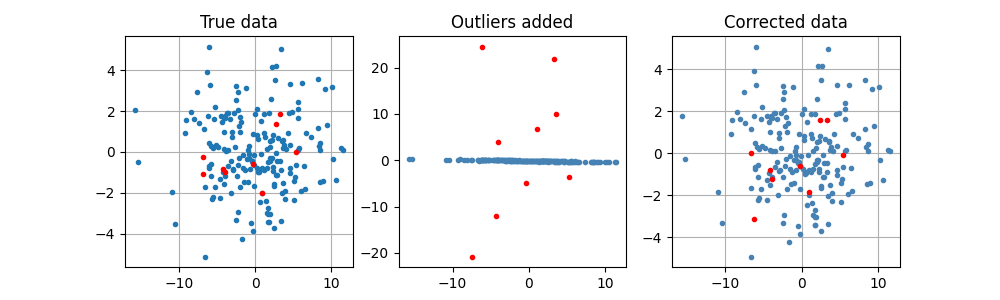
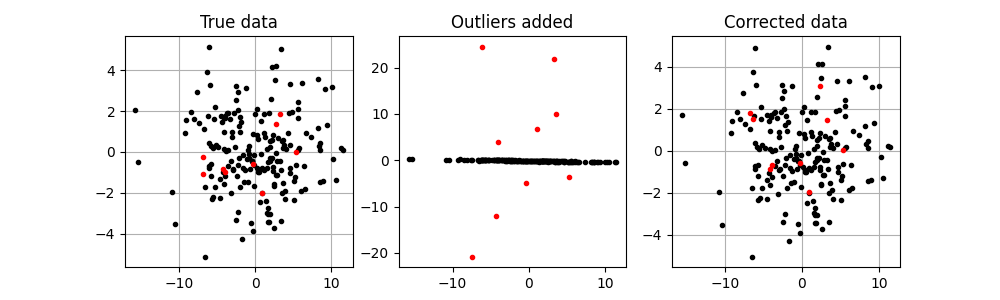
fixed synthetic datasets

diff --git a/exp_synthetic/test_synthetic_datasets.py b/exp_synthetic/test_synthetic_datasets.py
@@ -107,20 +107,20 @@ if not os.path.exists(cross_fig_path):
 
     # plot original graph
     va, ve, Xe = cMDS(ori_dis_sq)
-    ax1.plot(Xe[normal_indices,0],Xe[normal_indices,1],'.')
+    ax1.plot(Xe[normal_indices,0],Xe[normal_indices,1],'.', color='black')
     ax1.plot(Xe[outlier_indices,0],Xe[outlier_indices,1],'.',color='red')
     ax1.set_title("True data")
     ax1.grid()
 
     # plot original graphs with outliers added 
     va, ve, Xe = cMDS(out_dis_sq)
-    ax2.plot(Xe[normal_indices,0],Xe[normal_indices,1],'.', color='steelblue')
+    ax2.plot(Xe[normal_indices,0],Xe[normal_indices,1],'.', color='black')
     ax2.plot(Xe[outlier_indices,0],Xe[outlier_indices,1],'.',color='red')
     ax2.set_title("Outliers added")
 
     # plot correct outliers 
     va, ve, Xe = cMDS(corr_dis_sq)   
-    ax3.plot(Xe[normal_indices,0],Xe[normal_indices,1],'.', color='steelblue')
+    ax3.plot(Xe[normal_indices,0],Xe[normal_indices,1],'.', color='black')
     ax3.plot(Xe[outlier_indices,0],Xe[outlier_indices,1],'.',color='red')
     ax3.set_title("Corrected data")
     ax3.grid()
@@ -211,7 +211,7 @@ if not os.path.exists(dim2_fig_path):
             print("outlier:", e)
             ax1.scatter(e[0],e[1],e[2], s=5, color='red')
         else:
-            ax1.scatter(e[0],e[1],e[2], s=5, color='steelblue')
+            ax1.scatter(e[0],e[1],e[2], s=5, color='black')
     # plt.show()
 
     ax2 = fig.add_subplot(122, projection='3d')
@@ -224,7 +224,7 @@ if not os.path.exists(dim2_fig_path):
             print("outlier corrected:", e)
             ax2.scatter(e[0],e[1],e[2], s=5, color='red')
         else:
-            ax2.scatter(e[0],e[1],e[2], s=5, color='steelblue')
+            ax2.scatter(e[0],e[1],e[2], s=5, color='black')
     plt.savefig("./outputs/synthetic_dim2_3D.png")
     plt.close()
 
@@ -244,20 +244,20 @@ if not os.path.exists(dim2_fig_path):
 
     # plot original graph
     va, ve, Xe = cMDS(ori_dis_sq)
-    ax1.plot(Xe[normal_indices,0],Xe[normal_indices,1],'.')
+    ax1.plot(Xe[normal_indices,0],Xe[normal_indices,1],'.', color='black')
     ax1.plot(Xe[outlier_indices,0],Xe[outlier_indices,1],'.',color='red')
     ax1.set_title("True data")
     ax1.grid()
 
     # plot original graphs with outliers added 
     va, ve, Xe = cMDS(out_dis_sq)
-    ax2.plot(Xe[normal_indices,0],Xe[normal_indices,1],'.', color='steelblue')
+    ax2.plot(Xe[normal_indices,0],Xe[normal_indices,1],'.', color='black')
     ax2.plot(Xe[outlier_indices,0],Xe[outlier_indices,1],'.',color='red')
     ax2.set_title("Outliers added")
 
     # plot correct outliers 
     va, ve, Xe = cMDS(corr_dis_sq)   
-    ax3.plot(Xe[normal_indices,0],Xe[normal_indices,1],'.', color='steelblue')
+    ax3.plot(Xe[normal_indices,0],Xe[normal_indices,1],'.', color='black')
     ax3.plot(Xe[outlier_indices,0],Xe[outlier_indices,1],'.',color='red')
     ax3.set_title("Corrected data")
     ax3.grid()
@@ -267,7 +267,7 @@ if not os.path.exists(dim2_fig_path):
 
 """ Section 2.1.3: Main subspace of higher dimensions """
 
-dim10_fig_path = "./outputs/synthetic_dim10_shepard.png"
+dim10_fig_path = "./outputs/synthetic_dim10.png"
 if not os.path.exists(dim10_fig_path):
     print(" ====== Running dimension 10 dataset =====")
 
@@ -329,6 +329,8 @@ if not os.path.exists(dim10_fig_path):
     print("running time is:", T2-T1)
     print("subspace dimension is:", subspace_dim)
 
+    fig, (ax1, ax2, ax3) = plt.subplots(1, 3, figsize=(10*2.5,3*2.5))
+    fig.tight_layout(pad=3, w_pad=5, h_pad=1.0)
 
     # In[20]:
 
@@ -344,18 +346,26 @@ if not os.path.exists(dim10_fig_path):
 
     blues=np.array([[255,255,217,256*0.8],[199,233,180,256*0.8], [65,182,196,256*0.9], [34,94,168,256*0.9], [8,29,88,256*0.8]])/256
 
-    plt.figure()
+    # plt.figure()
     # select a few dimensions (i.e. 2,6,8,9,10) for demonstrating the distributions of heights
-    plt.hist(hcolls[2-start_dim],label='dim2',color=blues[0])
-    plt.hist(hcolls[6-start_dim],label='dim6',color=blues[1])
-    plt.hist(hcolls[8-start_dim],label='dim8',color=blues[2])
-    plt.hist(hcolls[9-start_dim],label='dim9',color=blues[3])
-    plt.hist(hcolls[10-start_dim],label='dim10',color=blues[4])
+    ax1.hist(hcolls[2-start_dim],label='dim2',color=blues[0])
+    ax1.hist(hcolls[6-start_dim],label='dim6',color=blues[1])
+    ax1.hist(hcolls[8-start_dim],label='dim8',color=blues[2])
+    ax1.hist(hcolls[9-start_dim],label='dim9',color=blues[3])
+    ax1.hist(hcolls[10-start_dim],label='dim10',color=blues[4])
 
-    plt.xticks(np.arange(0, 60, 5))
-    plt.legend()
-    plt.savefig("./outputs/synthetic_dim10_height_dist.png")
-    plt.close()
+    ax1.set_xticks(np.arange(0, 60, 5))
+    ax1.tick_params(axis='x', labelsize=6)
+    ax1.tick_params(axis='y', labelsize=8)
+    ax1.set_ylabel("frequency")
+    ax1.set_xlabel(r'median of the heights $h^{n}_i$')
+    ax1.legend()
+
+
+
+    
+    # plt.savefig("./outputs/synthetic_dim10_height_dist.png")
+    # plt.close()
 
     # In[26]:
 
@@ -376,24 +386,29 @@ if not os.path.exists(dim10_fig_path):
 
     # plot the height scatterplot and the ratios
 
-    fig, ax1 = plt.subplots()
-    color = 'tab:red'
-    ax1.set_xlabel(r'dimension tested $n$')
-    ax1.set_ylabel(r'median of heights', color = color)
-    ax1.scatter(list(range(start_dim, end_dim+1)), h_meds, color = color)
-    ax1.tick_params(axis ='y', labelcolor = color)
+    # fig, sub_ax1 = plt.subplots()
+    color = 'red'
+    ax2.set_xlabel(r'dimension tested $n$')
+    ax2.set_ylabel(r'median of heights', color = color)
+    ax2.set_xticks(np.arange(2, 16, 1))
+    ax2.scatter(list(range(start_dim, end_dim+1)), h_meds, color = color, s=6)
+    ax2.tick_params(axis ='y', labelcolor = color)
+    ax2.tick_params(axis='x', labelsize=6)
+    ax2.tick_params(axis='y', labelsize=7)
     
     # Adding Twin Axes to plot using dataset_2
-    ax2 = ax1.twinx()
+    sub_ax2 = ax2.twinx()
     
-    color = 'tab:green'
-    ax2.set_ylabel(r'heights median ratio: $h_{n-1}/h_n$', color = color)
-    ax2.plot(list(range(start_dim+1, end_dim+1)), h_med_ratios, color = color)
-    ax2.tick_params(axis ='y', labelcolor = color)
+    color = 'black'
+    sub_ax2.set_ylabel(r'heights median ratio: $h_{n-1}/h_n$', color = color)
+    sub_ax2.plot(list(range(start_dim+1, end_dim+1)), h_med_ratios, color = color)
+    sub_ax2.tick_params(axis ='y', labelcolor = color)
+    sub_ax2.tick_params(axis='x', labelsize=6)
+    sub_ax2.tick_params(axis='y', labelsize=7)
     
-    # Show plot
-    plt.savefig("./outputs/synthetic_dim10_ratio.png")
-    plt.close()
+    # # Show plot
+    # plt.savefig("./outputs/synthetic_dim10_ratio.png")
+    # plt.close()
 
     # In[24]:
 
@@ -404,18 +419,23 @@ if not os.path.exists(dim10_fig_path):
     ori_dis_flat=ori_dis_sq.flatten()
     corr_dis_flat=corr_dis_sq.flatten()
 
-    plt.figure()
+    # plt.figure()
     SMALL_SIZE=18
-    plt.rc('xtick', labelsize=SMALL_SIZE)    # fontsize of the tick labels
-    plt.rc('ytick', labelsize=SMALL_SIZE)    # fontsize of the tick labels
-    plt.scatter(ori_dis_flat,out_dis_flat,color='red',alpha=0.2,s=10)
-    plt.scatter(ori_dis_flat,corr_dis_flat,color='mediumblue',alpha=0.05,s=10)
+    # ax3.rc('xtick', labelsize=SMALL_SIZE)    # fontsize of the tick labels
+    # ax3.rc('ytick', labelsize=SMALL_SIZE)    # fontsize of the tick labels
+    ax3.tick_params(axis='x', labelsize=6)
+    ax3.tick_params(axis='y', labelsize=8)
 
-    plt.xlabel(r"true $\delta_{ij}$")
-    plt.ylabel(r'$\delta_{ij}$')
-    axes = plt.gca()
-    axes.set_xlim(5,50)
-    axes.set_ylim(2,70)
+    ax3.scatter(ori_dis_flat,out_dis_flat,color='red',alpha=0.2,s=6)
+    ax3.scatter(ori_dis_flat,corr_dis_flat,color='black',alpha=0.05,s=6)
+    ax3.tick_params(axis='x', labelsize=6)
+    ax3.tick_params(axis='y', labelsize=8)
+
+    ax3.set_xlabel(r"true $\delta_{ij}$")
+    ax3.set_ylabel(r'$\delta_{ij}$')
+    # axes = ax3.gca()
+    ax3.set_xlim(5,50)
+    ax3.set_ylim(2,70)
 
     plt.savefig(dim10_fig_path)
     plt.close()

diff --git a/exp_synthetic/test_synthetic_outlier_fraction.py b/exp_synthetic/test_synthetic_outlier_fraction.py
@@ -48,7 +48,7 @@ for i in range(len(res_outlier_indices_list)):
 plt.figure()
 props = np.arange(prop_incre, prop_incre+len(dim_pred_diff)*prop_incre, prop_incre)
 plt.plot(props, dim_pred_diff, c="red", label = "after correction")
-plt.plot(props, dim_raw_diff, c="blue", label = "before correction")
+plt.plot(props, dim_raw_diff, c="black", label = "before correction")
 plt.xticks(props)
 plt.xlabel(r'fraction of outliers $p$')
 plt.ylabel(r'$\bar{n}-d^{*}$')
